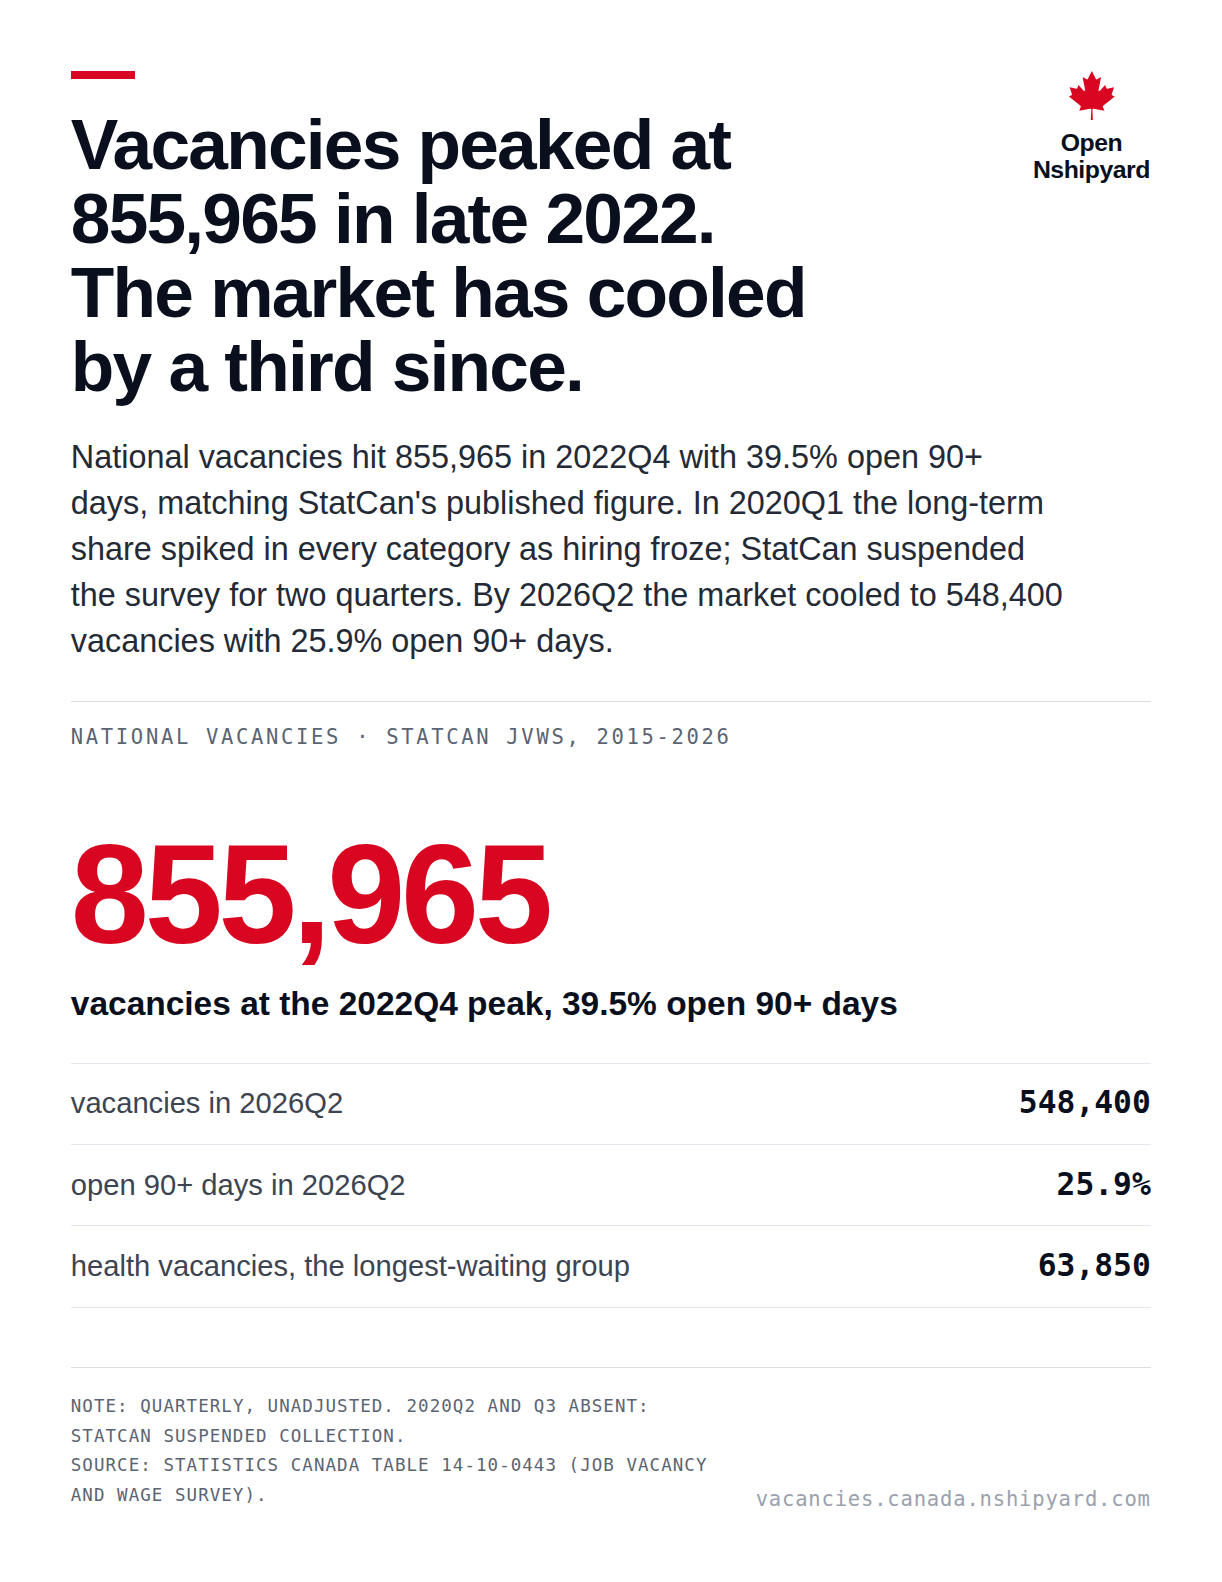
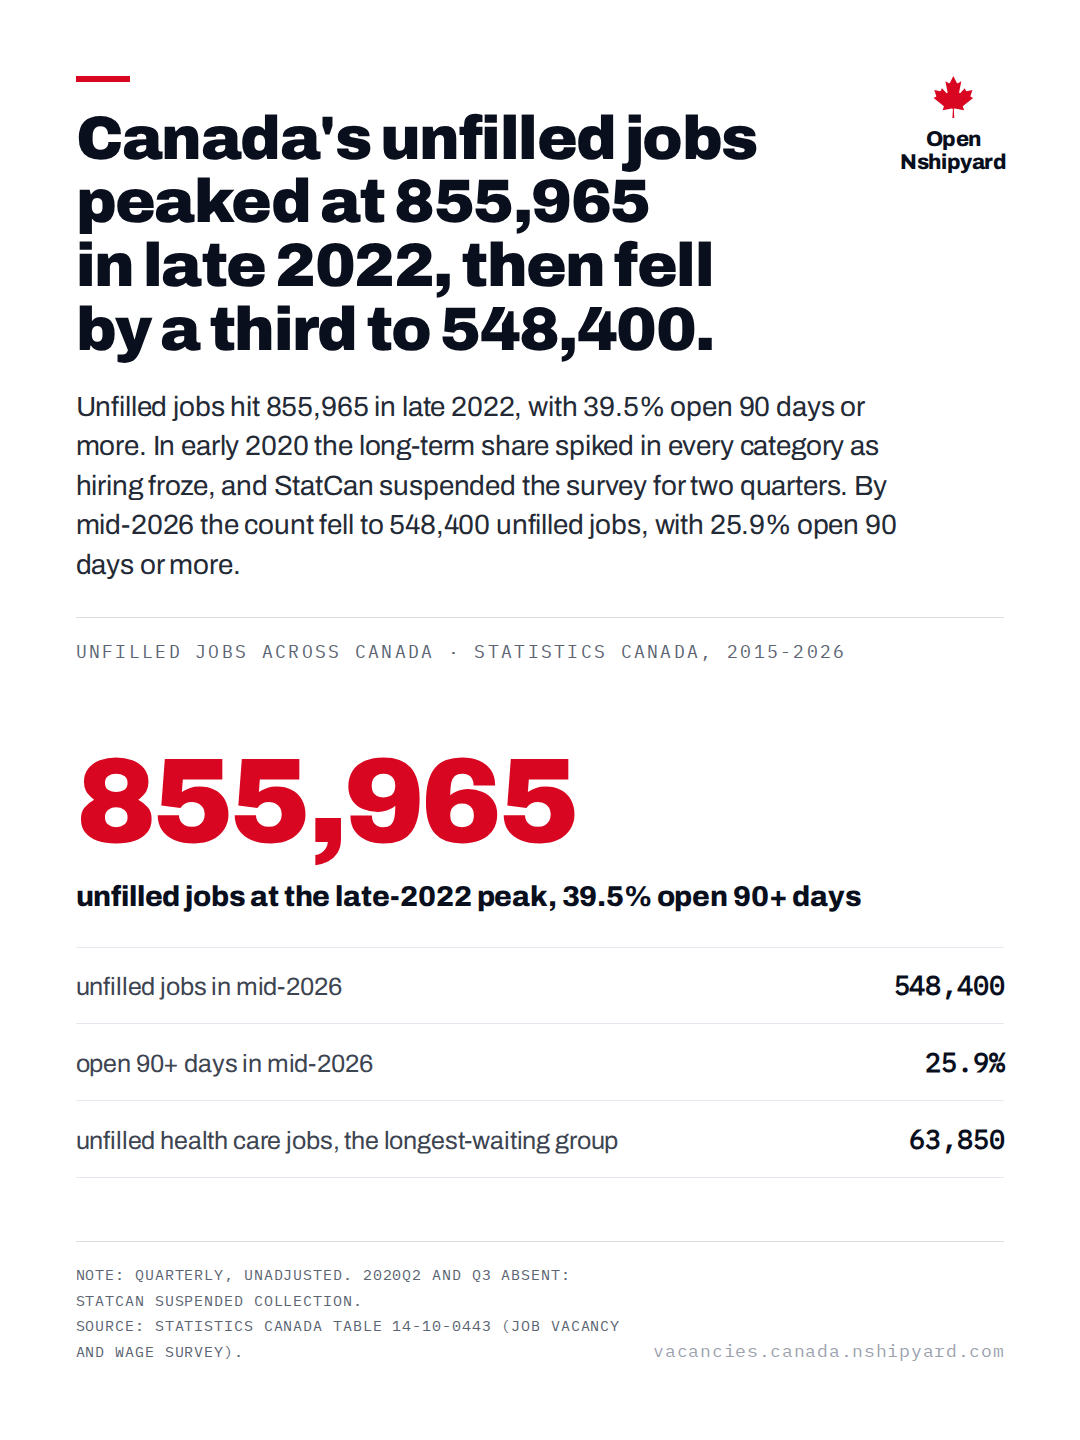
vacancies-national: plain-language card text, unfilled jobs instead of vacancies jargon

diff --git a/src/charts/chart-data.ts b/src/charts/chart-data.ts
@@ -1331,34 +1331,34 @@ export const CHARTS: ChartDef[] = [
     },
   {
       slug: "vacancies-national",
-      kicker: "National vacancies · StatCan JVWS, 2015-2026",
+      kicker: "Unfilled jobs across Canada · Statistics Canada, 2015-2026",
       headline: "Vacancies peaked at 855,965 in late 2022. The market has cooled by a third since.",
-      deck: "National vacancies hit 855,965 in 2022Q4 with 39.5% open 90+ days, matching StatCan's published figure. In 2020Q1 the long-term share spiked in every category as hiring froze; StatCan suspended the survey for two quarters. By 2026Q2 the market cooled to 548,400 vacancies with 25.9% open 90+ days.",
+      deck: "Unfilled jobs hit 855,965 in late 2022, with 39.5% open 90 days or more. In early 2020 the long-term share spiked in every category as hiring froze, and StatCan suspended the survey for two quarters. By mid-2026 the count fell to 548,400 unfilled jobs, with 25.9% open 90 days or more.",
       note: "Quarterly, unadjusted. 2020Q2 and Q3 absent: StatCan suspended collection.",
       source: "Statistics Canada table 14-10-0443 (Job Vacancy and Wage Survey).",
       shareText:
-        "Canadian job vacancies peaked at 855,965 in late 2022 with 39.5% open 90+ days. By mid-2026: 548,400 vacancies, 25.9% long-term.",
+        "Canada's unfilled jobs peaked at 855,965 in late 2022, with 39.5% open 90 days or more. By mid-2026: 548,400 unfilled, 25.9% open that long.",
       projectName: "Vacancy Duration vs Offered Wage",
       projectUrl: "https://vacancies.canada.nshipyard.com",
       fr: {
         headline: "Les postes vacants ont culminé à 855 965 fin 2022. Le marché a refroidi d'un tiers depuis.",
-        deck: "Les postes vacants nationaux ont atteint 855 965 au T4 2022 avec 39,5 % ouverts depuis 90 jours ou plus, ce qui correspond au chiffre publié par StatCan. Au T1 2020, la part de longue durée a bondi dans chaque catégorie pendant le gel des embauches; StatCan a suspendu l'enquête pendant deux trimestres. Au T2 2026, le marché s'était refroidi à 548 400 postes vacants avec 25,9 % ouverts depuis 90 jours ou plus.",
-        kicker: "Postes vacants nationaux · EPVS de StatCan, 2015-2026",
+        deck: "Les emplois non comblés ont atteint 855 965 fin 2022, avec 39,5 % ouverts depuis 90 jours ou plus. Au début de 2020, la part de longue durée a bondi dans chaque catégorie pendant le gel des embauches, et StatCan a suspendu l'enquête pendant deux trimestres. À la mi-2026, le nombre est tombé à 548 400 emplois non comblés, avec 25,9 % ouverts depuis 90 jours ou plus.",
+        kicker: "Emplois non comblés au Canada · Statistique Canada, 2015-2026",
         note: "Trimestriel, non désaisonnalisé. T2 et T3 2020 absents : StatCan a suspendu la collecte.",
         source: "Tableau 14-10-0443 de Statistique Canada (Enquête sur les postes vacants et les salaires).",
         shareText:
-          "Les postes vacants au Canada ont culminé à 855 965 fin 2022 avec 39,5 % ouverts depuis 90 jours ou plus. Mi-2026 : 548 400 postes vacants, 25,9 % de longue durée.",
+          "Les emplois non comblés au Canada ont culminé à 855 965 fin 2022, avec 39,5 % ouverts depuis 90 jours ou plus. Mi-2026 : 548 400 non comblés, 25,9 % ouverts depuis aussi longtemps.",
       },
       chart: {
         kind: "stat",
         bigValue: "855,965",
         bigValueFr: "855 965",
-        bigLabel: "vacancies at the 2022Q4 peak, 39.5% open 90+ days",
-        bigLabelFr: "postes vacants au sommet du T4 2022, 39,5 % ouverts depuis 90 jours ou plus",
+        bigLabel: "unfilled jobs at the late-2022 peak, 39.5% open 90+ days",
+        bigLabelFr: "emplois non comblés au sommet de fin 2022, 39,5 % ouverts depuis 90 jours ou plus",
         stats: [
-          { value: "548,400", valueFr: "548 400", label: "vacancies in 2026Q2", labelFr: "postes vacants au T2 2026" },
-          { value: "25.9%", valueFr: "25,9 %", label: "open 90+ days in 2026Q2", labelFr: "ouverts depuis 90 jours ou plus au T2 2026" },
-          { value: "63,850", valueFr: "63 850", label: "health vacancies, the longest-waiting group", labelFr: "postes vacants en santé, le groupe qui attend le plus" },
+          { value: "548,400", valueFr: "548 400", label: "unfilled jobs in mid-2026", labelFr: "emplois non comblés à la mi-2026" },
+          { value: "25.9%", valueFr: "25,9 %", label: "open 90+ days in mid-2026", labelFr: "ouverts depuis 90 jours ou plus au T2 2026" },
+          { value: "63,850", valueFr: "63 850", label: "unfilled health care jobs, the longest-waiting group", labelFr: "emplois non comblés en santé, le groupe qui attend le plus" },
         ],
       },
     },
